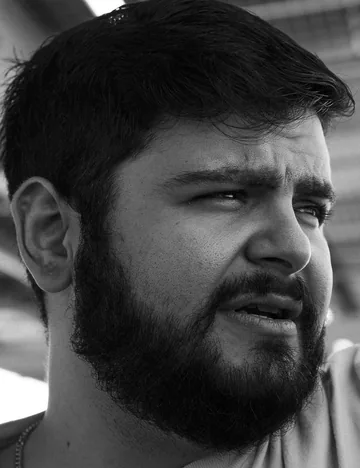
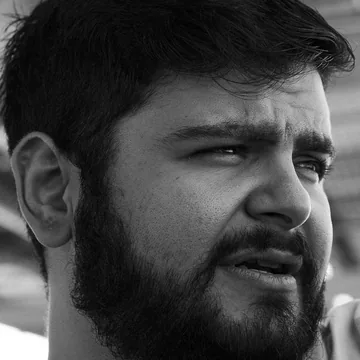
hero: restore the circle and apply Graphite + Steel
Use the square headshot at 120px again and replace the warm palette with graphite and steel, including the gold logos, icons, and leftover accent colors.

diff --git a/styles.css b/styles.css
@@ -12,13 +12,13 @@
 
 /* Dark mode is enforced permanently (class="dark" on <html>). */
 html.dark {
-  --bg:        #1a1410;
-  --surface:   #242018;
-  --text:      #f0ebe3;
-  --muted:     #9c9488;
-  --accent:    #b07d4e;
-  --border:    rgba(255, 255, 255, 0.08);
-  --nav-bg:    rgba(26, 20, 16, 0.92);
+  --bg:        #16181b;
+  --surface:   #1f2226;
+  --text:      #e8eaed;
+  --muted:     #9aa0a8;
+  --accent:    #9fb4c7;
+  --border:    rgba(255,255,255,0.08);
+  --nav-bg:    rgba(22,24,27,0.92);
 }
 
 * { box-sizing: border-box; margin: 0; padding: 0; }
@@ -44,7 +44,7 @@ a { color: inherit; }
   left: -9999px;
   top: 0;
   background: var(--accent);
-  color: #fff;
+  color: #16181b;
   padding: 10px 16px;
   border-radius: 0 0 8px 0;
   z-index: 100;
@@ -89,7 +89,7 @@ a { color: inherit; }
 .switcher-btn:hover { border-color: var(--accent); }
 .switcher-btn.active {
   background: var(--accent);
-  color: #fff;
+  color: #16181b;
   border-color: var(--accent);
 }
 
@@ -203,7 +203,7 @@ section[id] { scroll-margin-top: 80px; }
 }
 .pill-filled {
   background: var(--accent);
-  color: #fff;
+  color: #16181b;
   border: 0.5px solid var(--accent);
 }
 .pill-filled:hover { opacity: 0.9; }
@@ -226,11 +226,11 @@ section[id] { scroll-margin-top: 80px; }
 .hero-row source { display: none; }
 .hero-photo {
   width: 120px;
-  height: 156px;
+  height: 120px;
   border-radius: 50%;
   object-fit: cover;
-  object-position: center center;
-  border: 2px solid var(--accent, #b07d4e);
+  object-position: center top;
+  border: 2px solid var(--accent);
   flex-shrink: 0;
 }
 
@@ -460,7 +460,7 @@ textarea { min-height: 130px; resize: vertical; }
   margin-top: 6px;
   width: 100%;
   background: var(--accent);
-  color: #fff;
+  color: #16181b;
   border: none;
   border-radius: 10px;
   padding: 13px;
@@ -475,7 +475,7 @@ textarea { min-height: 130px; resize: vertical; }
 
 #form-error {
   display: none;
-  color: #c0392b;
+  color: #e06c5c;
   font-size: 13px;
   margin-top: 10px;
 }
@@ -548,7 +548,7 @@ footer p {
     order: -1;
     align-self: center;
     width: 96px;
-    height: 125px;
+    height: 96px;
     margin-bottom: 16px;
   }
 
@@ -572,3 +572,6 @@ footer p {
   .fade-in { opacity: 1; transform: none; transition: none; }
   .hero-sub.tw-typing::after { animation: none; }
 }
+
+/* palette extras */
+body{background:linear-gradient(180deg,#1c1f23 0%,#16181b 50%,#131518 100%) fixed;}

diff --git a/404.html b/404.html
@@ -48,7 +48,7 @@
       <h1 style="font-family:var(--serif);font-size:clamp(6rem,20vw,12rem);font-weight:700;color:var(--accent);line-height:1;margin-bottom:0;">404</h1>
       <h2 style="font-family:var(--serif);font-size:clamp(1.5rem,3vw,2rem);font-weight:600;margin-bottom:16px;">Page not found</h2>
       <p style="color:var(--text-muted);max-width:420px;margin:0 auto 40px;line-height:1.75;">Looks like this page doesn&rsquo;t exist. Let&rsquo;s get you back on track.</p>
-      <a href="/" style="display:inline-flex;align-items:center;gap:8px;padding:14px 32px;background:var(--accent);color:#fff;border-radius:50px;font-weight:600;font-size:.9rem;transition:transform .2s,box-shadow .2s;" onmouseover="this.style.transform='translateY(-2px)';this.style.boxShadow='0 6px 22px rgba(176,125,78,.38)'" onmouseout="this.style.transform='';this.style.boxShadow=''">Back to Home</a>
+      <a href="/" style="display:inline-flex;align-items:center;gap:8px;padding:14px 32px;background:var(--accent);color:#16181b;border-radius:50px;font-weight:600;font-size:.9rem;transition:transform .2s,box-shadow .2s;" onmouseover="this.style.transform='translateY(-2px)';this.style.boxShadow='0 6px 22px rgba(159,180,199,.38)'" onmouseout="this.style.transform='';this.style.boxShadow=''">Back to Home</a>
     </div>
   </main>
 

diff --git a/index.html b/index.html
@@ -50,7 +50,7 @@
     window.SITE_ID    = 'bryan';
     window.SITE_NAME  = 'Bryan Habibi';
     window.SITE_EMOJI = '👔';
-    window.SITE_COLOR = 0xb07d4e;
+    window.SITE_COLOR = 0x9fb4c7;
   </script>
   <script defer src="analytics.js"></script>
 </head>
@@ -105,7 +105,7 @@
             </a>
           </div>
         </div>
-        <picture><source srcset="assets/BryanHabibi_Headshot.webp" type="image/webp"><img class="hero-photo" src="assets/BryanHabibi_Headshot.jpg" alt="Bryan Habibi" width="120" height="156" fetchpriority="high"></picture>
+        <picture><source srcset="assets/BryanHabibi_Headshot.webp" type="image/webp"><img class="hero-photo" src="assets/BryanHabibi_Headshot.jpg" alt="Bryan Habibi" width="120" height="120" fetchpriority="high"></picture>
       </div>
     </section>
 

diff --git a/analytics.js b/analytics.js
@@ -299,7 +299,7 @@
   const SITE_ID    = window.SITE_ID    || 'bryan';
   const SITE_NAME  = window.SITE_NAME  || 'Bryan Habibi';
   const SITE_EMOJI = window.SITE_EMOJI || '👔';
-  const SITE_COLOR = window.SITE_COLOR || 0xb07d4e;
+  const SITE_COLOR = window.SITE_COLOR || 0x9fb4c7;
   const CHAN       = SITE_ID === 'ht' ? 'ht' : 'bryan';
 
   // ── 1. PAGE VISIT ────────────────────────────────
